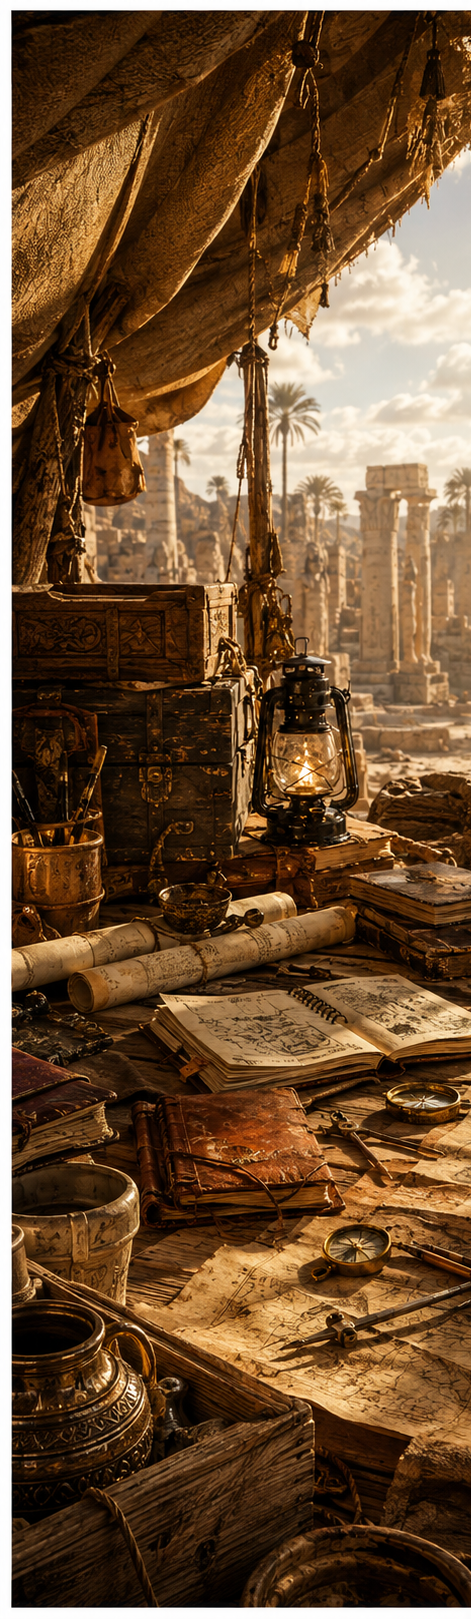
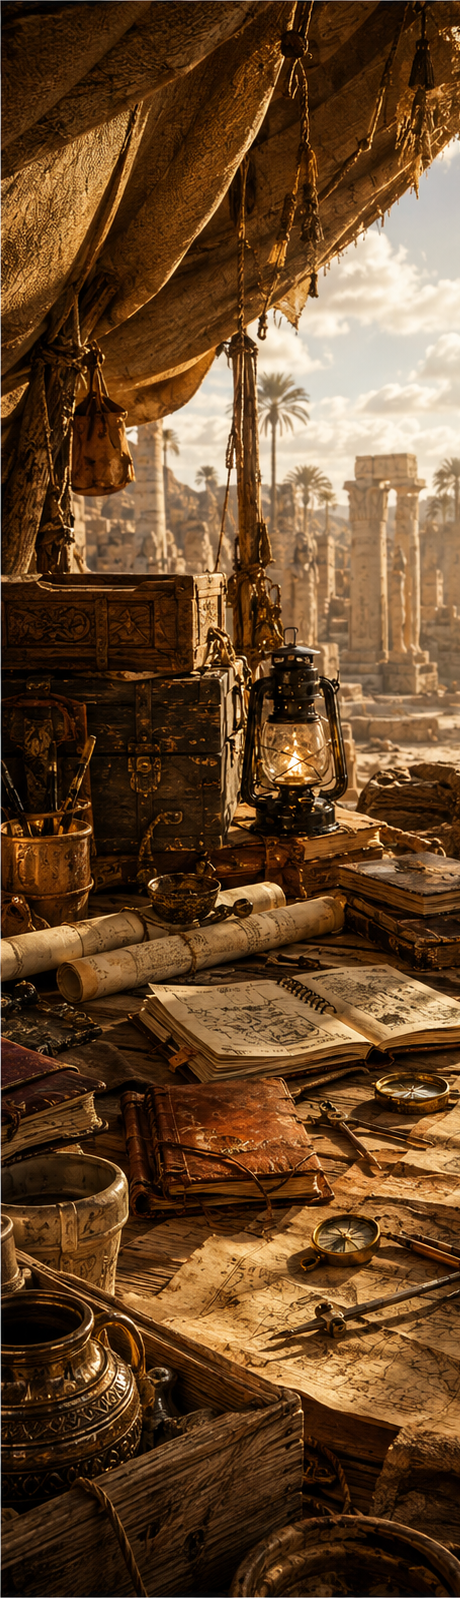
n

diff --git a/public/experience-themes.js b/public/experience-themes.js
@@ -43,9 +43,9 @@
       right:'/assets/themes/galactic/galactic-right.png?v=20260819-art-v1'
     },
     expedition:{
-      top:'/assets/themes/expedition/expedition-top.png?v=20260819-art-v1',
-      left:'/assets/themes/expedition/expedition-left.png?v=20260819-art-v1',
-      right:'/assets/themes/expedition/expedition-right.png?v=20260819-art-v1'
+      top:'/assets/themes/expedition/expedition-top.png?v=20260819-art-v2',
+      left:'/assets/themes/expedition/expedition-left.png?v=20260819-art-v2',
+      right:'/assets/themes/expedition/expedition-right.png?v=20260819-art-v2'
     }
   };
 

diff --git a/public/index.html b/public/index.html
@@ -63,7 +63,7 @@
   <script defer src="/developer-data.js?v=9.6.4"></script>
   <script defer src="/developer-tools.js?v=9.6.6"></script>
   <script defer src="/explorer-visual-designer.js?v=2.3.1-profile-scoped-normal-flow"></script>
-  <script defer src="/experience-themes.js?v=2.7.0-art-refresh"></script>
+  <script defer src="/experience-themes.js?v=2.9.2-expedition-edge-cleanup"></script>
 </head>
 <body>
 <header class="site-header">
